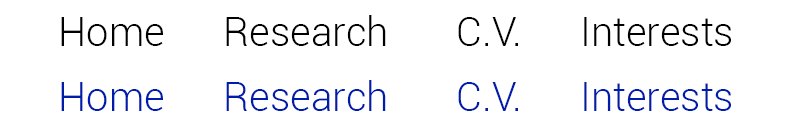
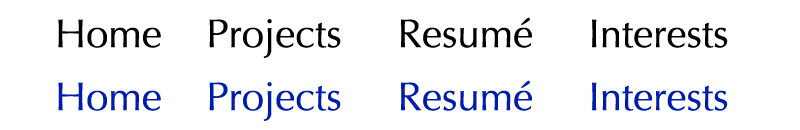
Added index/css/images templates. Added tabs templates

diff --git a/cr_styles.css b/cr_styles.css
@@ -10,13 +10,13 @@ top:2px;}
 #home{background:url('i/links.png') 0 0;}
 #home a:hover{background: url('i/links.png') 0 -65px;}
 
-#res{left:280px;width:200px;}
-#res{background:url('i/links.png') -200px 0;}
-#res a:hover{background: url('i/links.png') -200px -65px;}
+#proj{left:280px;width:200px;}
+#proj{background:url('i/links.png') -200px 0;}
+#proj a:hover{background: url('i/links.png') -200px -65px;}
 
-#cv{left:510px;width:170px;}
-#cv{background:url('i/links.png') -400px 0;}
-#cv a:hover{background: url('i/links.png') -400px -65px;}
+#resume{left:510px;width:170px;}
+#resume{background:url('i/links.png') -400px 0;}
+#resume a:hover{background: url('i/links.png') -400px -65px;}
 
 #int{left:730px;width:200px;}
 #int{background:url('i/links.png') -580px 0;}

diff --git a/index.html b/index.html
@@ -13,9 +13,9 @@
 <div id="nav">
 <ul id="navlist">
   <li id="home"><a href="index.html"></a></li>
-  <li id="res"><a href="br_res.html"></a></li>
-  <li id="cv"><a href="br_cv.html"></a></li>
-  <li id="int"><a href="br_int.html"></a></li>
+  <li id="proj"><a href="cr_proj.html"></a></li>
+  <li id="resume"><a href="cr_resume.html"></a></li>
+  <li id="int"><a href="cr_int.html"></a></li>
 </ul>
 </div>
 <div id="innards">

diff --git a/cr_int.html b/cr_int.html
@@ -1,0 +1,1 @@
+Coming Soon!

diff --git a/cr_proj.html b/cr_proj.html
@@ -1,0 +1,1 @@
+Coming Soon!

diff --git a/cr_resume.html b/cr_resume.html
@@ -1,0 +1,1 @@
+Coming Soon!
